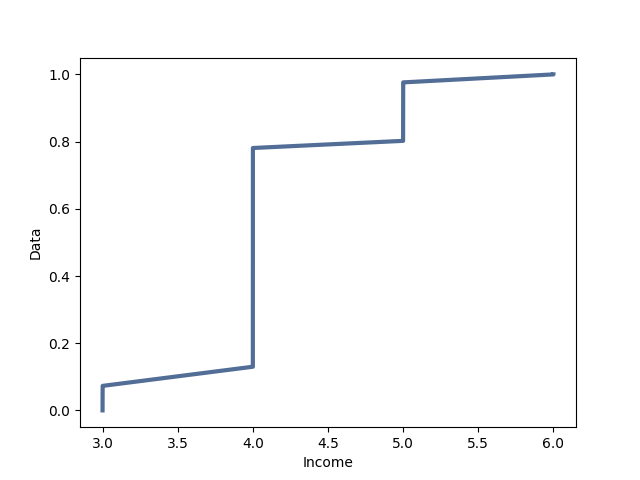
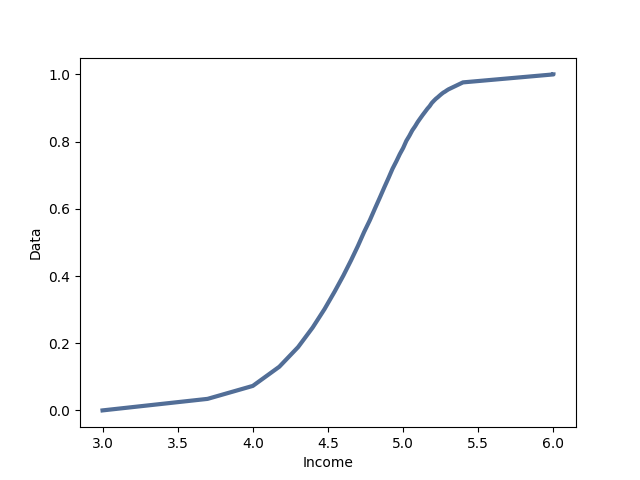
Push updated code and results

diff --git a/Data Exploration and Analysis/Week_5/Assignment_6_1_JGreenert.py b/Data Exploration and Analysis/Week_5/Assignment_6_1_JGreenert.py
@@ -34,7 +34,7 @@ def InterpolateSample(df, log_upper=6.0):
     # each range
     arrays = []
     for _, row in df.iterrows():
-        vals = np.linspace(int(row.log_lower), int(row.log_upper), int(row.freq)) # Had to add int coercion
+        vals = np.linspace(row.log_lower, row.log_upper, int(row.freq)) # Had to add int coercion
         arrays.append(vals)
 
     # collect the arrays into a single sample
